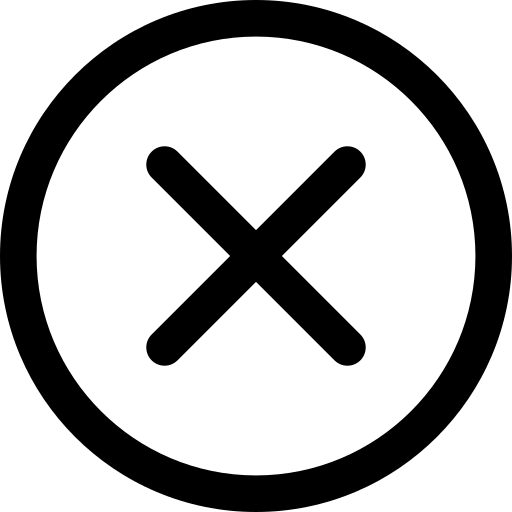
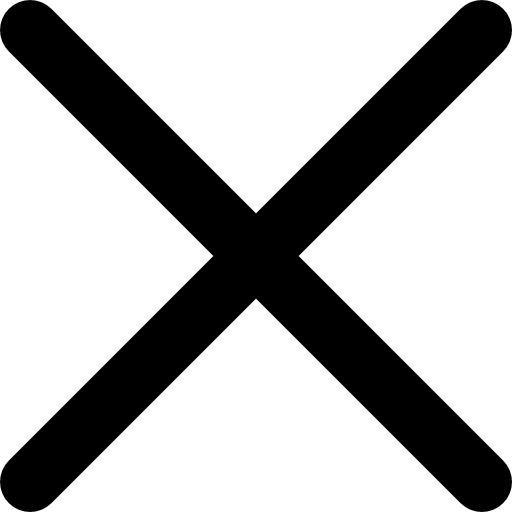
finalização modal

diff --git a/modelo.html b/modelo.html
@@ -22,8 +22,7 @@
             display: flex;
             justify-content: center;
             align-items: center;
-            font-size: 70px;
-            margin-bottom: 10px;
+            font-size: 78px;
         }
 
         .container {
@@ -60,7 +59,7 @@
 
         button.mais {
             padding: 8px;
-            color: #ffffff;
+            color: #080707;
             border: solid black 0.0625rem;
             border-radius: 5px;
             cursor: pointer;
@@ -83,6 +82,7 @@
             bottom: 20px;
             right: 20px;
             cursor: pointer;
+            top: 20px;
         }
 
         .theme-toggle i {
@@ -101,7 +101,8 @@
         body.dark-mode button i {
             color: #000000;
         }
-        ul{
+
+        ul {
             display: flex;
             color: black;
             font-family: "Tinos", serif;
@@ -119,6 +120,7 @@
             align-items: center;
             justify-content: center;
         }
+
         li {
             border: solid 1px black;
             background-color: white;
@@ -131,51 +133,57 @@
             align-items: center;
             justify-content: center;
         }
-        .modal {
+
+        .modal-container {
             display: none;
             position: fixed;
-            top: 0;
-            left: 0;
-            width: 95vw;
-            height: 95vh;
-            background: rgba(0, 0, 0, 0.7);
+            top: 50%;
+            left: 50%;
+            transform: translate(-50%, -50%);
+            width: 100%;
+            max-width: 1350px;
+            height: auto;
             z-index: 1000;
-            
-            align-items: center;
+            padding: 10px;
+            display: flex;
             justify-content: center;
+            align-items: center;
         }
 
         .modal-content {
-            transform: scale(0.8);
-            transition: transform 0.3s ease;
             background: #ffffff;
-            padding: 150px;
+            color: #000000;
+            padding: 20px;
             border-radius: 8px;
             text-align: center;
-            max-width: 500px;
-            width: 90%;
+            width: 100%;
+            box-sizing: border-box;
+            height: 650px;
+            border: 2px solid #000000;
         }
 
         .dark-mode .modal-content {
             background: #333333;
             color: #ffffff;
+            border: 2px solid #ffffff;
         }
 
         .fechar-modal {
             display: flex;
             justify-content: center;
-            align-items: flex-end;
+            align-items: center;
             font-size: 2rem;
             cursor: pointer;
             color: #000;
             position: absolute;
-            top: 20px;
-            right: 20px;
+            top: 10px;
+            right: 10px;
         }
 
         .fechar-modal img {
-            width: 40px;
-            height: 40px;
+            padding: 15px;
+            width: 20px;
+            height: 20px;
         }
 
         .dark-mode .fechar-modal {
@@ -185,7 +193,6 @@
         .dark-mode .fechar-modal img {
             filter: invert(1);
         }
-
     </style>
 </head>
 <body>
@@ -201,29 +208,27 @@
             <i class="fas fa-moon"></i>
         </div>
         <div>
-            <ul id="taskList">
-            </ul>
+            <ul id="taskList"></ul>
         </div>
     </div>
 
-    <div class="modal" id="nossoModal">
+    <div class="modal-container" id="nossoModal">
         <div class="modal-content">
             <span class="fechar-modal" id="fecharModal">
                 <img src="imagens/x.png" alt="Fechar">
             </span>
-            <h2>oii isa</h2>
+            <h2>Desenvolvimento web 1</h2>
             <p>Para entrar em contato, clique no link abaixo:</p>
             <a href="https://wa.me/5541996386250" target="_blank">
                 <button class="mais">
                     <img src="imagens/whatsapp.png" alt="WhatsApp">
-                    Enviar mensagem no WhatsApp
+                    <span style="margin-left: 5px;">Enviar mensagem no WhatsApp</span>
                 </button>
             </a>
         </div>
     </div>
 
     <script>
-        //temas
         const botaoTema = document.getElementById("toggle-theme");
 
         botaoTema.addEventListener("click", () => {
@@ -242,24 +247,21 @@
                 document.querySelector("#toggle-theme i").className = "fas fa-sun";
             }
         });
-          // adcionando tarefas
-          function addTask() {
+
+        function addTask() {
             const taskInput = document.getElementById('taskInput');
             const taskText = taskInput.value.trim();
 
             if (taskText !== '') {
-                // Criar um novo item da lista
                 const li = document.createElement('li');
                 li.textContent = taskText;
 
-                // Adicionar o item à lista
                 const taskList = document.getElementById('taskList');
                 taskList.appendChild(li);
 
-                // Limpar o campo de entrada
                 taskInput.value = '';
-            }};
-
+            }
+        };
 
         const modal = document.getElementById("nossoModal");
         const fecharModal = document.getElementById("fecharModal");
@@ -274,8 +276,6 @@
         fecharModal.addEventListener("click", () => {
             modal.style.display = "none";
         });
-
-        
     </script>
 </body>
 </html>
